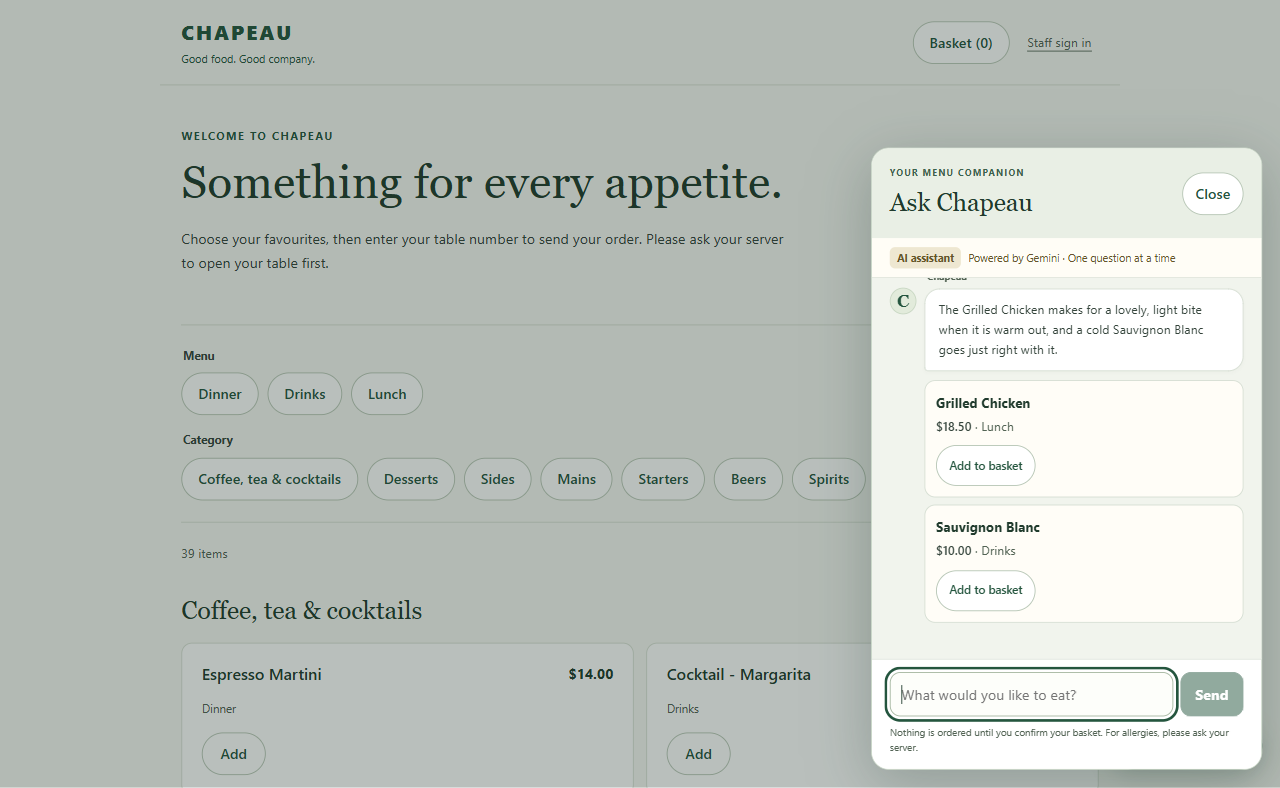
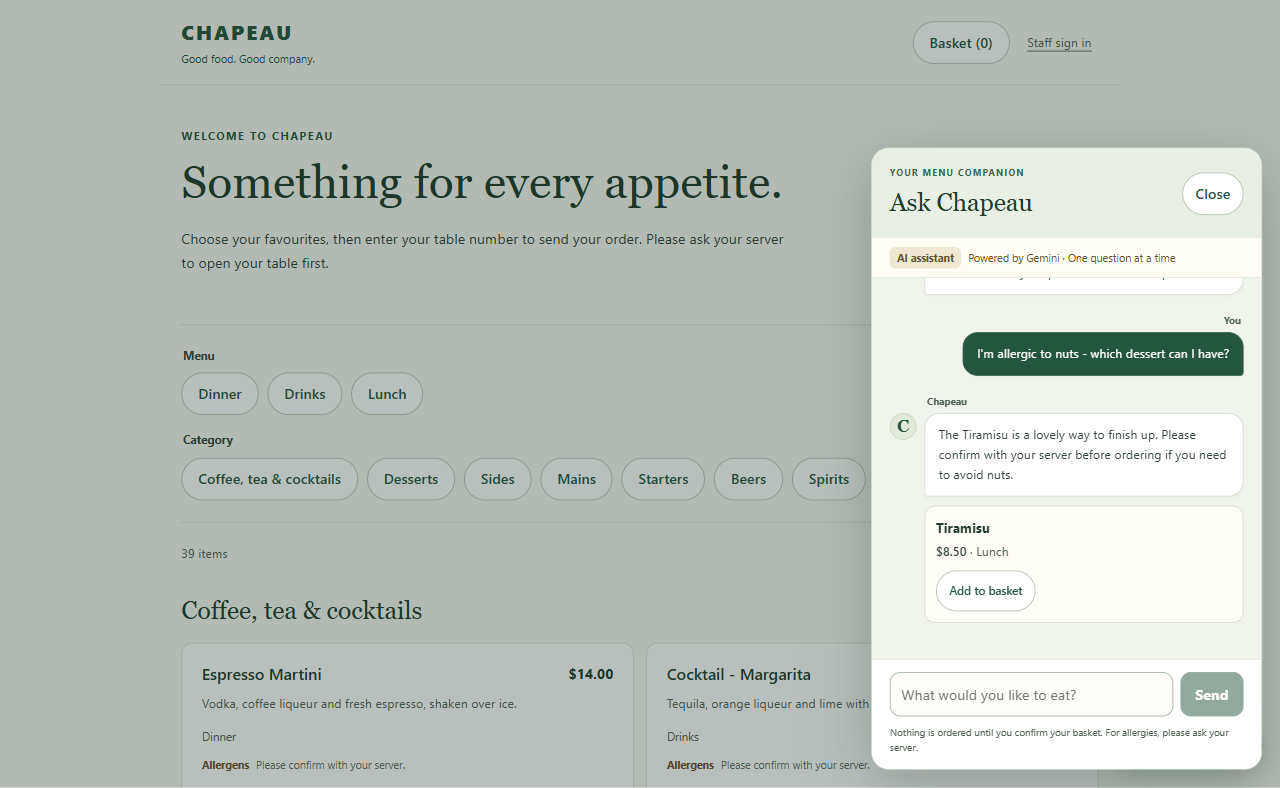
add screenshots

diff --git a/README.md b/README.md
@@ -1,3 +1,180 @@
-# Project Chapeau
-## Include some templates from the last term, only for reference
-## Group Member: Puok, Can, Laith, Bogdan, and Bader.
+<div align="center">
+
+![Chapeau](https://capsule-render.vercel.app/api?type=waving&color=gradient&customColorList=12&height=200&section=header&text=Chapeau&fontSize=60&fontColor=fff&animation=fadeIn&desc=A%20restaurant%20POS%2C%20rebuilt%20from%20an%20unfinished%20course%20project&descAlignY=68&descSize=18)
+
+[![.NET](https://img.shields.io/badge/.NET-8.0-512BD4)](https://dotnet.microsoft.com/)
+[![React](https://img.shields.io/badge/React-19-61DAFB)](https://react.dev/)
+[![TypeScript](https://img.shields.io/badge/TypeScript-5-3178C6)](https://www.typescriptlang.org/)
+[![PostgreSQL](https://img.shields.io/badge/PostgreSQL-16-4169E1)](https://www.postgresql.org/)
+[![Docker](https://img.shields.io/badge/Docker-Compose-2496ED)](https://www.docker.com/)
+
+</div>
+
+Chapeau started as an unfinished five-person university project: a WinForms restaurant POS connected to SQL Server. After the course ended I rebuilt it on my own as a web platform, and used it to work through the problems the old version never solved. The original WinForms code is still in the repo (`ChapeauUI/`, `ChapeauService/`, `ChapeauDAL/`, `ChapeauModel/`), so everything old and new is in one place.
+
+- **Live deployment:** http://149.118.68.3 (runs from my own server via Docker Compose; it's online when my machine is)
+- **Offline demo:** `cd frontend && npm install && npm run demo`, then open http://localhost:5173/menu — no backend, the API calls are mocked in the browser
+
+Demo PINs (same on both):
+
+| PIN | Role |
+| --- | --- |
+| 1234 | Waiter |
+| 3456 | Chef |
+| 4567 | Bartender |
+
+## 📸 What it looks like
+
+| | |
+| --- | --- |
+| ![Guest menu](docs/images/customer-menu.png) | ![Waiter floor view](docs/images/waiter-tables.png) |
+| ![Kitchen queue](docs/images/kitchen.png) | ![Ask Chapeau assistant](docs/images/customer-assistant.png) |
+
+<!-- TODO: 录一张核心流程 GIF（开台 → 点菜 → 厨房/吧台 → 结账），10 秒内、5MB 以下，放 docs/images/walkthrough.gif 后取消注释 -->
+<!-- ![Walkthrough](docs/images/walkthrough.gif) -->
+
+Guests order from a public page at `/menu`: browse the menu, add items to a basket with per-line notes, enter their table number, and the order lands in the normal staff flow. Waiters open tables and take orders, the kitchen and bar each get their own queue, and once everything on an order is served the waiter can check it out, which frees the table.
+
+One thing worth trying on the live site: ask the assistant "I'm allergic to nuts — which dessert can I have?" It answers from the ingredient data and still tells you to confirm with your server before ordering.
+
+## 📂 What the repo looks like
+
+The course project and the rebuild live in the same repository on purpose. Here is how they compare:
+
+### 🕰 Before — the course project
+
+```text
+Chapeau/
+├── 📄 Project Chapeau.sln
+├── 📂 ChapeauModel/               # 3 entity classes
+│   ├── 📄 Order.cs                # order + order line merged into one
+│   ├── 📄 Employee.cs
+│   └── 📄 Table.cs
+├── 📂 ChapeauDAL/
+│   ├── 📄 BaseDao.cs              # raw ADO.NET, shared SqlConnection
+│   ├── 📄 OrderDao.cs
+│   ├── 📄 TableDao.cs
+│   └── 📄 EmployeeDao.cs
+├── 📂 ChapeauService/
+│   ├── 📄 IfCorrectChecker_Bogdan.cs   # files named after team members
+│   ├── 📄 OrderService_Overview.cs
+│   └── 📄 TableService_Bogdan.cs
+└── 📂 ChapeauUI/                  # WinForms, one form per screen
+    ├── 📄 LoginPage.cs
+    ├── 📄 Orders.cs
+    ├── 📄 Tables.cs
+    └── 📄 ChapeauUI.cs
+```
+
+### 🔨 After — the rebuild
+
+```text
+Project-Chapeau/
+├── 📂 src/
+│   ├── 📂 Chapeau.Core/            # entities + enums shared by every layer
+│   ├── 📂 Chapeau.Infrastructure/  # EF Core data access, Gemini assistant
+│   ├── 📂 Chapeau.Api/             # REST controllers, cookie auth, rate limits
+│   └── 📂 Chapeau.Migrations.Postgres/  # versioned database migrations
+├── 📂 frontend/                    # React 19 SPA
+│   ├── 📂 src/api/                 # typed API client
+│   ├── 📂 src/components/          # shared + staff + customer UI
+│   ├── 📂 src/pages/               # staff screens + public /menu
+│   ├── 📂 src/demo/                # scripted in-browser API mock
+│   ├── 📂 src/lib/                 # cart, menu details, formatting
+│   └── 📂 src/types/
+├── 📂 data/
+│   └── 📄 menu-details.json        # allergen/ingredient data for prompt + SPA
+├── 📄 compose.local.yaml           # local Docker environment
+├── 📄 compose.server.yaml          # server deployment: PostgreSQL + API + Nginx
+├── 📄 Dockerfile.api
+└── 📄 Dockerfile.frontend
+```
+
+What to notice: in the old version the folder names say "layers" but the boundary shows up nowhere in the code, and every domain concept is one flat file. The rebuild separates entities, data access, the API surface and schema migrations, and pairs the API with a real frontend. The four old folders are still in the repo root, so the contrast sits one scroll away.
+
+## 📜 What the old version looked like
+
+The course version had the standard UI / Service / DAL / Model folders and even used parameterised SQL, so it wasn't missing architecture on paper. The problems were in the details:
+
+- The UI sometimes bypassed the service layer when it was convenient.
+- The `Order` class mixed order-level and dish-level fields, so an order had one status for the whole table and every dish row carried no price of its own.
+- There was no way to create an order end to end, no checkout implementation, and `BillId` sat on the model without anything ever using it.
+- The shared order screen had a combo box where any status could be set on any row.
+
+Full comparison with quoted code: [docs/refactoring.md](docs/refactoring.md).
+
+## 🔧 What I changed and why
+
+The biggest change was the data model. `Order` is now just the order: table, employee, created time, paid flag. Each dish is an `OrderItem` with its own count, note, preparation status, and the unit price at the time it was ordered. That single split is what makes the rest possible: the kitchen and bar can work items independently, a menu price change doesn't affect existing bills, and checkout totals come from stored prices instead of current menu prices.
+
+| Old (course project) | Rebuild |
+| --- | --- |
+| <!-- TODO: IDE 并排截图，左侧 ChapeauModel/Order.cs --> ![Order model before](docs/images/code-order-before.png) | <!-- TODO: 右侧 src/Chapeau.Core/Entities/Order.cs + OrderItem.cs --> ![Order model after](docs/images/code-order-after.png) |
+
+Kitchen and bar status changes are validated on the server. The kitchen can move an item from Running to Preparing and from Preparing to Prepared, nothing else, and anything outside that gets a 409 instead of a silent overwrite. Which queue an item appears in is decided by the menu item's category.
+
+| Old (course project) | Rebuild |
+| --- | --- |
+| <!-- TODO: 左侧 ChapeauUI/Orders.cs 的状态下拉 --> ![Status handling before](docs/images/code-status-before.png) | <!-- TODO: 右侧 src/Chapeau.Api/Controllers/KitchenController.cs 的转换校验 --> ![Status handling after](docs/images/code-status-after.png) |
+
+Checkout closes the loop: the waiter can only bill an order once every item is served, the total is computed from the stored unit prices, and saving the bill, marking the order paid, and freeing the table all happen in one `SaveChangesAsync`.
+
+Guest orders handle failure honestly. If the API answers, the guest sees submitted or rejected with the reason. If the connection drops before an answer, the frontend counts the submission as uncertain, tells the guest it can't confirm whether the order arrived, and keeps the basket rather than auto-resending and risking a double order.
+
+## 🏗 Architecture
+
+```mermaid
+flowchart TB
+    S[Staff SPA - React 19]
+    G[Guest /menu + assistant]
+    N[Nginx - static SPA + /api proxy]
+    A[ASP.NET Core 8 API - cookie auth, antiforgery, rate limits]
+    P[(PostgreSQL)]
+    M[Gemini Flash-Lite]
+    S --> N
+    G --> N
+    N --> A
+    A --> P
+    A <-.menu JSON in prompt.-> M
+```
+
+Docker Compose runs PostgreSQL, the API, and the Nginx-served frontend. Development uses SQLite and switches to Postgres through a `DatabaseProvider` setting; migrations live in `Chapeau.Migrations.Postgres`. Guest and assistant endpoints are anonymous but rate-limited; everything staff-facing requires a role.
+
+## 🚀 Running it
+
+```bash
+# offline demo, no backend
+cd frontend
+npm install
+npm run demo
+
+# full stack in Docker
+docker compose -f compose.local.yaml up -d --build   # set GEMINI_API_KEY for the assistant
+
+# plain development
+dotnet run --project src/Chapeau.Api     # SQLite
+cd frontend && npm install && npm run dev
+```
+
+## 🤖 The AI assistant
+
+Ask Chapeau is a small feature and I kept it that way: one stateless call per question, the in-stock menu injected into the prompt, and a JSON schema forcing the model to return `{reply, menuItemIds}`, which the frontend renders as pick cards. Guests confirm everything in their own basket; the assistant can't place an order.
+
+The part I designed myself is the guardrail layer: recipe and allergen data ships as one tracked JSON file (`data/menu-details.json`) used by both the prompt and the dish details on the frontend, missing data means "unknown" rather than "safe", an empty allergen list is never presented as allergen-free, items listing the guest's allergen are not recommended, and cross-contact questions always go to a human. The HTTP plumbing, schema setup, and error mapping around that were built with AI coding agents and then reviewed against this list, which is roughly the split I'd describe in an interview.
+
+Cost-wise it's about 1,000 prompt tokens per question, well under a tenth of a cent on Flash-Lite and within the free tier, which is also why I chose a full-menu prompt over a retrieval tool for a 40-item menu.
+
+## 🧭 Scope and what's next
+
+Things I deliberately left out, and what I'd do next:
+
+- Payment is recorded (method, amount, tip), not processed through a payment provider.
+- Guests submit their first order only; additions go through a waiter.
+- Recipe data is demo data, and the JSON says so in its own `dataStatus` field. Moving it into menu table columns via a migration is the first item on the roadmap.
+- Assistant recommendations are rejected outright if the model returns an unknown menu item; dropping the bad ID and keeping the reply would be the more graceful behaviour.
+- Login is a 4-digit PIN without rate limiting. That's a known trade-off for an internal-restaurant demo, and it's the first thing that would need to change for any public deployment.
+- Kitchen and table views poll the API; SignalR would fit naturally here.
+
+## 🙏 Credits
+
+The original course project was built by a five-person team: Puok, Can, Laith, Bogdan and Bader. Their WinForms code is preserved untouched in this repository. The rebuild, the web API, the frontend, and the deployment are my work, with AI coding agents used for parts of the UI layer and assistant plumbing as noted above.

diff --git a/docs/refactoring.md b/docs/refactoring.md
@@ -1,0 +1,144 @@
+# The rebuild in detail — before & after
+
+Companion to the README. Every snippet below is quoted from this repository, with the file it came from. The original SQL Server schema was never inspected (no database file ships with the course project), so statements about the old system are limited to its code.
+
+## 1. Layering and boundaries
+
+**Old — layering existed, but the UI chose when to respect it.**
+
+The same WinForms form sorts through the service and loads through the DAO:
+
+```csharp
+// ChapeauUI/Orders.cs
+private void SortAndDisplayOrders(string sortBy)
+{
+    List<Order> sortedOrders = this.orderService.SortOrders(this.orders, sortBy);  // via service
+    DisplayOrders(sortedOrders);
+}
+
+private void LoadOrderOverview()
+{
+    orders = new OrderDao().GetAllOrders();   // bypasses the service layer
+    DisplayOrders(orders);
+}
+```
+
+`OrderDao` is a thin wrapper over raw ADO.NET:
+
+```csharp
+// ChapeauDAL/BaseDao.cs (abridged)
+conn = new SqlConnection(ConfigurationManager
+    .ConnectionStrings["Plebbproject"].ConnectionString);
+adapter = new SqlDataAdapter();
+...
+protected void ExecuteEditTranQuery(string query, SqlParameter[] sqlParameters,
+    SqlTransaction sqlTransaction)
+```
+
+Parameterised, but per-DAO connections, manual parameter arrays, and a shared mutable `SqlConnection` per DAO instance.
+
+**New — one entry point into the domain.**
+
+The API controllers compose EF Core queries directly and every table-facing route is role-gated; the boundary is enforced by structures (attribute authorization, DTO projections, server-side status rules) rather than by convention. For a codebase of this size controllers carrying their queries keeps indirection low; the layer that must not be bypassed — stock, money, and state rules — has no UI-side alternative.
+
+## 2. Authorization and sign-in
+
+**Old.** `LoginPage` → `ChapeauService.IfCorrectChecker_Bogdan` (note the team-member naming convention) hashed the entered user code with SHA-256 and compared against employees; success opened the next WinForms form. Authorization ended at "which form appeared".
+
+```csharp
+// ChapeauService/IfCorrectChecker_Bogdan.cs
+using SHA256 sha256 = SHA256.Create();
+byte[] bytes = sha256.ComputeHash(Encoding.UTF8.GetBytes(userCode));
+```
+
+**New.** PIN login returns a `HttpOnly`, `SameSite=Strict` authentication cookie with an 8-hour window; every business controller carries `[Authorize(Roles = ...)]`; mutating requests additionally require antiforgery tokens (server-side `AutoValidateAntiforgeryToken` + `X-CSRF-TOKEN` from an in-memory token fetched at `/api/auth/csrf`). The SPA and the guest page never handle secrets.
+
+## 3. The order model
+
+**Old — order and order line merged, no prices, dead bill reference.**
+
+```csharp
+// ChapeauModel/Order.cs (abridged)
+public class Order
+{
+    public enum OrderStatus { Done, Preparing, Served, Undefined }
+    public int OrderId { get; set; }
+    public int EmployeeId { get; set; }
+    public OrderStatus Status { get; set; }  // one status for the whole order
+    public DateTime OrderTakenTime { get; set; }
+    public string Comments { get; set; }
+    public int TableId { get; set; }
+    public int MenuItemId { get; set; }      // one row per dish
+    public int Count { get; set; }
+    public int BillId { get; set; }          // never referenced by any flow
+}
+```
+
+Consequences visible in the old UI: a ListView of flat rows, one status shared by the whole table order, no way to bill at the price the guest saw, no checkout implementation.
+
+**New — Order / OrderItem / Bill.**
+
+```
+src/Chapeau.Core/Entities/
+    Order.cs      Table, responsible employee, created time, IsPaid
+    OrderItem.cs  MenuItem, Count, Comment, Status, UnitPrice (captured at order time)
+    Bill.cs       OrderId, PaymentMethod, Amount, Tip, PaymentTime, AdjustmentReason
+    Table.cs      physical table, status derived from orders
+    MenuItem.cs   name, category, price, Stock
+```
+
+Now each dish line has its own life cycle, the bill sums `UnitPrice * Count`, and price changes on the menu cannot rewrite history.
+
+## 4. Status handling: free picker → role-owned state machine
+
+**Old.** The shared order list exposed a status combo box; whatever the user picked became the new status:
+
+```csharp
+// ChapeauUI/Orders.cs
+string newStatus = comboBox1.SelectedItem.ToString();
+order.Status = Order.StringToStatus(newStatus);
+```
+
+**New.** Transitions are validated on the server per station. The kitchen route accepts only `Running → Preparing` and `Preparing → Prepared` (409 otherwise); the bar has its own subset; serving is a waiter action. The customer order flow creates items in `Running`; the kitchen and bar only ever see items that belong to their categories (`_kitchenCategories` / `_barCategories` in `KitchenController` / `BarController`).
+
+## 5. Stock
+
+**Old.** Menu items were outside the order flow — nothing decremented stock.
+
+**New.** Stock is transactional at both entry points:
+
+- waiter adds an item → row update `item.Stock -= request.Count` inside the same save as the order item (`OrdersController`);
+- guest submits a first order → all requested items are collected (`requiredCounts`), validated and decremented in one pass (`CustomerOrdersController`); consumed stock drives `IsAvailable` (`Stock > 0`) for the public menu.
+
+## 6. Checkout
+
+**Old.** `Order.BillId` appeared on the model with no implementation anywhere in UI, Service or DAL.
+
+**New.** `POST /api/bill` (`BillController`, waiter-only):
+
+```csharp
+if (order.Items.Any(item => item.Status != OrderStatus.Served))
+    return Conflict("Items must be served");
+...
+subtotal = subtotal + item.UnitPrice * item.Count;
+...
+Bill bill = new Bill { ..., Amount = request.OverrideAmount ?? subtotal, Tip = request.Tip, ... };
+order.IsPaid = true;
+order.Table.Status = TableStatus.Free;
+_dbContext.Bills.Add(bill);
+await _dbContext.SaveChangesAsync();   // bill + paid + table release in one atomic save
+```
+
+Guards along the way: unknown order (404), empty order (400), already paid (409), override amount and tip validated non-negative with ≤ 2 decimals, payment method must be a defined enum. The client additionally distinguishes `submitted` / `rejected` / `uncertain` so a dropped connection produces "ask your server to check" instead of a false success.
+
+## 7. What the course version never had
+
+- Public guest ordering (`/menu`, basket, table-number submission with batch stock validation, 409s for tables open without staff).
+- The menu assistant: its grounding data (`data/menu-details.json`) is tracked once and consumed by both the API prompt and the SPA; recommendations are validated against the menu server-side.
+- Docker Compose deployment (PostgreSQL + API + Nginx), demo mode for offline evaluation, and the `Chapeau.Migrations.Postgres` project.
+
+## 8. Kept as-is, deliberately
+
+- Controllers hold EF queries directly (no repository layer): the indirection would buy nothing at this scale; the enforced boundaries are roles, DTOs and status rules.
+- A 4-digit PIN instead of credentials: the threat model is a restaurant LAN, not the public internet (see README "Scope & limitations").
+- State on code review: the assistant's request plumbing was AI-generated and reviewed; guardrails and business rules are hand-written.
